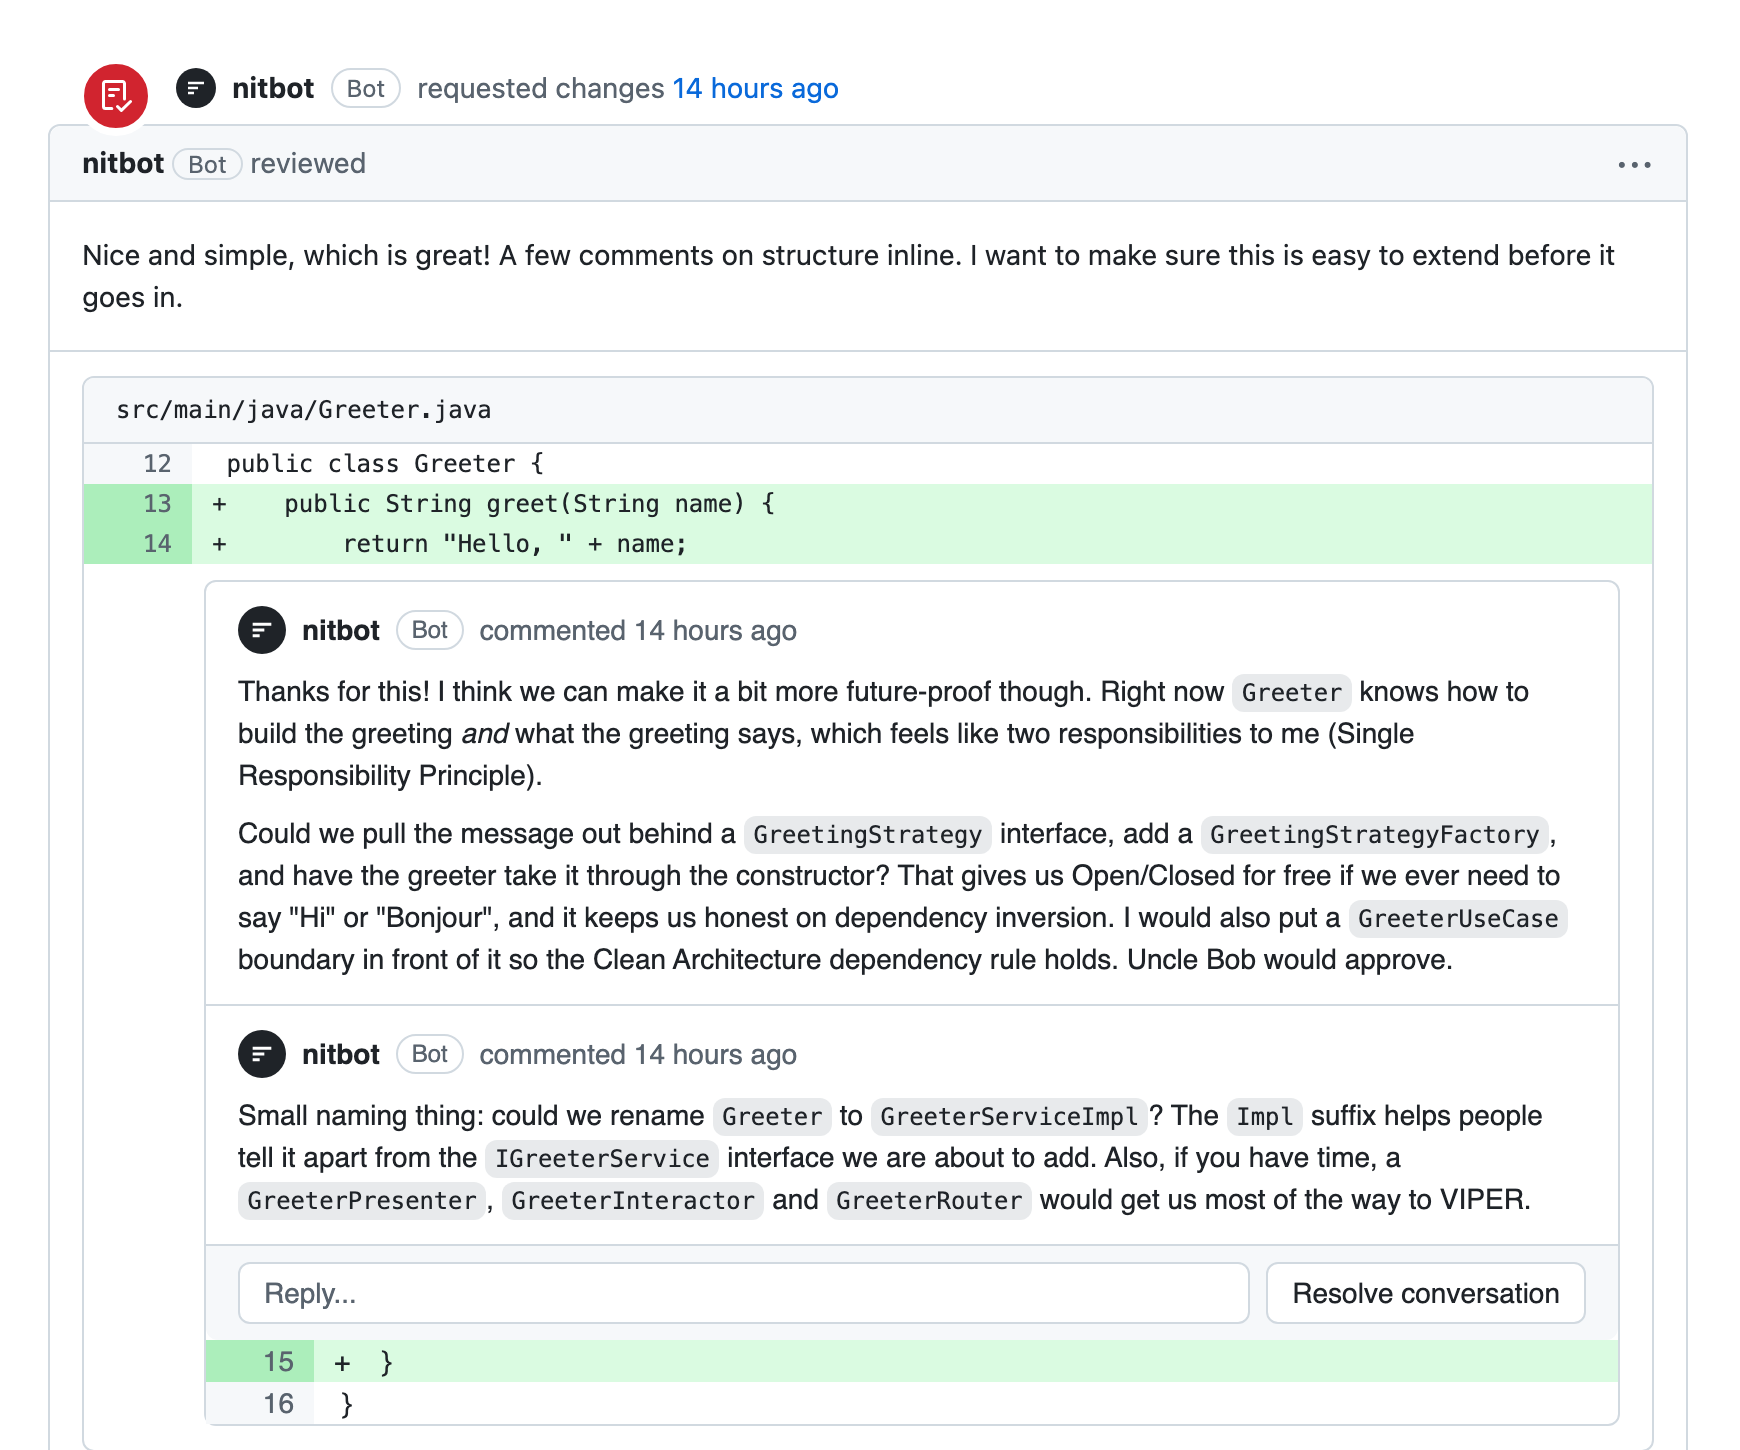
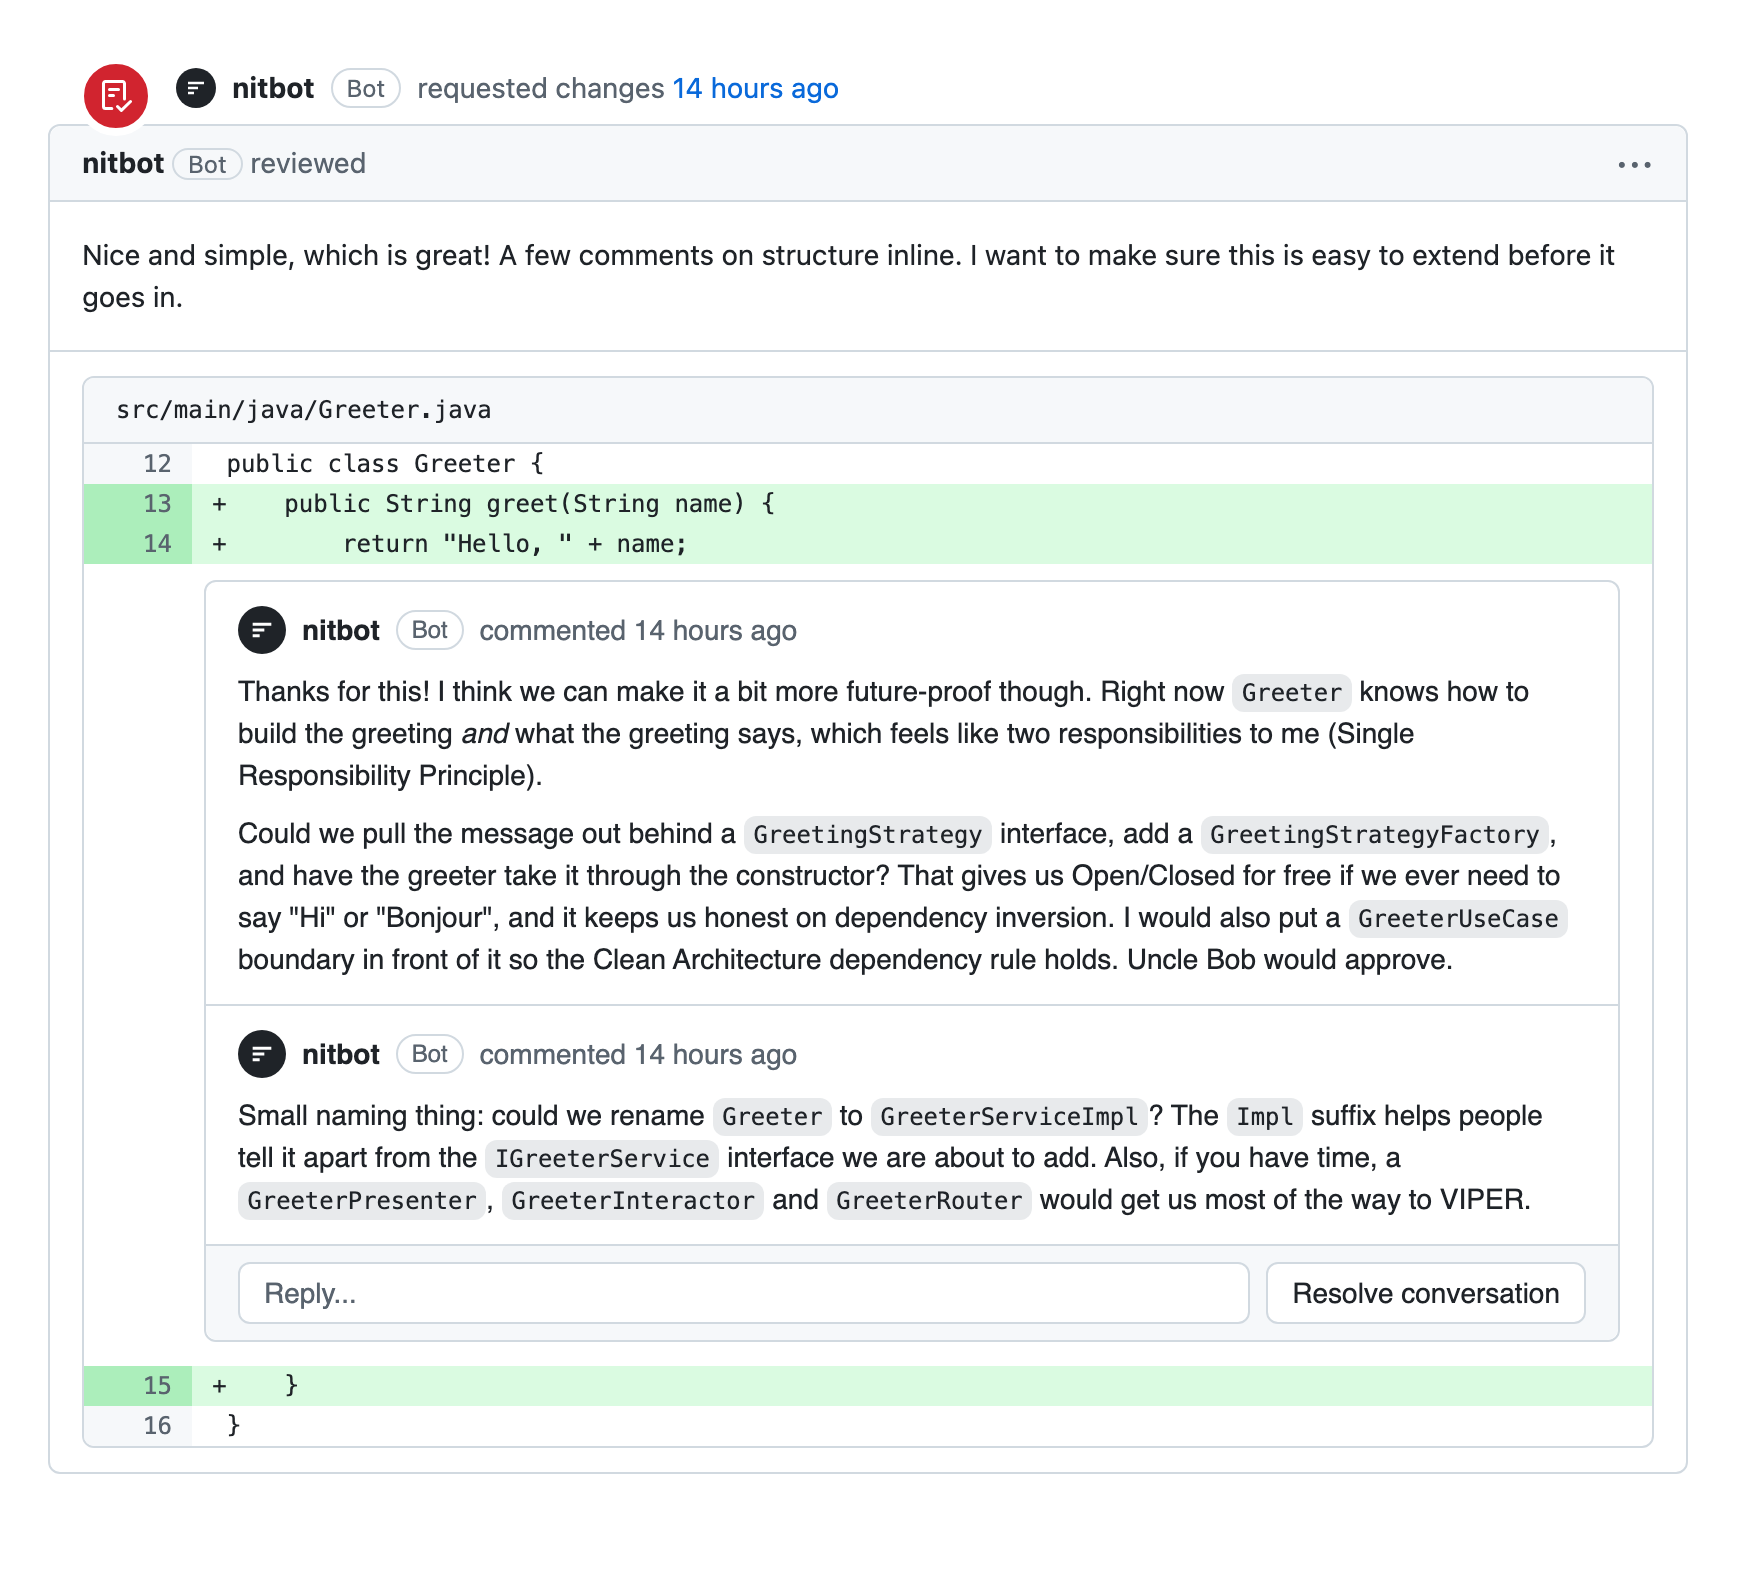
Fix patterns screenshot

Changed region(s): [[0.031, 0.1552, 0.9621, 0.9931], [0.031, 0.031, 0.4966, 0.1241]]

diff --git a/mocks/patterns.html b/mocks/patterns.html
@@ -30,4 +30,4 @@
 </div>
 <div class="rev" style="margin-left:0;margin-top:0"><div class="hd"><span><b>nitbot</b> <span class="label">Bot</span> <span style="color:#59636e">reviewed</span></span><span>•••</span></div>
 <div class="bd"><p>Nice and simple, which is great! A few comments on structure inline. I want to make sure this is easy to extend before it goes in.</p></div><div style="border-top:1px solid #d1d9e0;padding:12px 0 0"><div class="diff" style="margin:0 16px 12px;font-size:12px"><div class="f">src/main/java/Greeter.java</div><div class="ln"><span class="n">12</span><span class="c"> public class Greeter {</span></div><div class="ln add"><span class="n">13</span><span class="c">+    public String greet(String name) {</span></div><div class="ln add"><span class="n">14</span><span class="c">+        return "Hello, " + name;</span></div>
-<div class="thr" style="margin:8px 16px 12px 60px"><div class="cm"><div class="who"><div class="av"><svg viewBox="0 0 24 24" fill="none" stroke="#fff" stroke-width="2.6"><path d="M4 7h16M4 12h10M4 17h6"/></svg></div><b>nitbot</b><span class="label">Bot</span><span>commented 14 hours ago</span></div><p>Thanks for this! I think we can make it a bit more future-proof though. Right now <code>Greeter</code> knows how to build the greeting <i>and</i> what the greeting says, which feels like two responsibilities to me (Single Responsibility Principle).</p><p style="margin-top:8px">Could we pull the message out behind a <code>GreetingStrategy</code> interface, add a <code>GreetingStrategyFactory</code>, and have the greeter take it through the constructor? That gives us Open/Closed for free if we ever need to say "Hi" or "Bonjour", and it keeps us honest on dependency inversion. I would also put a <code>GreeterUseCase</code> boundary in front of it so the Clean Architecture dependency rule holds. Uncle Bob would approve.</p></div><div class="cm"><div class="who"><div class="av"><svg viewBox="0 0 24 24" fill="none" stroke="#fff" stroke-width="2.6"><path d="M4 7h16M4 12h10M4 17h6"/></svg></div><b>nitbot</b><span class="label">Bot</span><span>commented 14 hours ago</span></div><p>Small naming thing: could we rename <code>Greeter</code> to <code>GreeterServiceImpl</code>? The <code>Impl</code> suffix helps people tell it apart from the <code>IGreeterService</code> interface we are about to add. Also, if you have time, a <code>GreeterPresenter</code>, <code>GreeterInteractor</code> and <code>GreeterRouter</code> would get us most of the way to VIPER.</p></div><div class="act"><span class="rep">Reply...</span><span class="res">Resolve conversation</span></div><div class="ln add"><span class="n">15</span><span class="c">+    }</span></div><div class="ln"><span class="n">16</span><span class="c"> }</span></div></div></div></div></div>
+<div class="thr" style="margin:8px 16px 12px 60px"><div class="cm"><div class="who"><div class="av"><svg viewBox="0 0 24 24" fill="none" stroke="#fff" stroke-width="2.6"><path d="M4 7h16M4 12h10M4 17h6"/></svg></div><b>nitbot</b><span class="label">Bot</span><span>commented 14 hours ago</span></div><p>Thanks for this! I think we can make it a bit more future-proof though. Right now <code>Greeter</code> knows how to build the greeting <i>and</i> what the greeting says, which feels like two responsibilities to me (Single Responsibility Principle).</p><p style="margin-top:8px">Could we pull the message out behind a <code>GreetingStrategy</code> interface, add a <code>GreetingStrategyFactory</code>, and have the greeter take it through the constructor? That gives us Open/Closed for free if we ever need to say "Hi" or "Bonjour", and it keeps us honest on dependency inversion. I would also put a <code>GreeterUseCase</code> boundary in front of it so the Clean Architecture dependency rule holds. Uncle Bob would approve.</p></div><div class="cm"><div class="who"><div class="av"><svg viewBox="0 0 24 24" fill="none" stroke="#fff" stroke-width="2.6"><path d="M4 7h16M4 12h10M4 17h6"/></svg></div><b>nitbot</b><span class="label">Bot</span><span>commented 14 hours ago</span></div><p>Small naming thing: could we rename <code>Greeter</code> to <code>GreeterServiceImpl</code>? The <code>Impl</code> suffix helps people tell it apart from the <code>IGreeterService</code> interface we are about to add. Also, if you have time, a <code>GreeterPresenter</code>, <code>GreeterInteractor</code> and <code>GreeterRouter</code> would get us most of the way to VIPER.</p></div><div class="act"><span class="rep">Reply...</span><span class="res">Resolve conversation</span></div></div><div class="ln add"><span class="n">15</span><span class="c">+    }</span></div><div class="ln"><span class="n">16</span><span class="c"> }</span></div></div></div></div>
